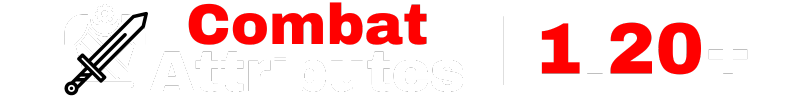
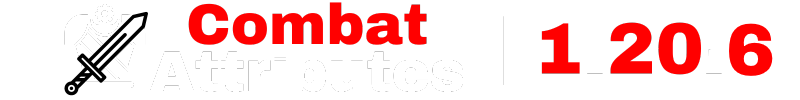
Support MC 1.20.6 (only)

Changed region(s): [[0.875, 0.24, 0.9688, 0.78]]

diff --git a/src/main/java/fr/keykatyu/combatattributes/combat/CombatItem.java b/src/main/java/fr/keykatyu/combatattributes/combat/CombatItem.java
@@ -15,12 +15,13 @@ import fr.keykatyu.combatattributes.util.ItemBuilder;
 import fr.keykatyu.combatattributes.util.Util;
 import fr.keykatyu.mctranslation.api.Language;
 import fr.keykatyu.mctranslation.api.MCTranslator;
+import net.minecraft.core.Holder;
 import net.minecraft.world.entity.ai.attributes.Attributes;
 import net.minecraft.world.item.*;
 import org.bukkit.NamespacedKey;
 import org.bukkit.attribute.AttributeModifier;
-import org.bukkit.craftbukkit.v1_20_R3.entity.CraftPlayer;
-import org.bukkit.craftbukkit.v1_20_R3.inventory.CraftItemStack;
+import org.bukkit.craftbukkit.v1_20_R4.entity.CraftPlayer;
+import org.bukkit.craftbukkit.v1_20_R4.inventory.CraftItemStack;
 import org.bukkit.entity.Player;
 import org.bukkit.inventory.EquipmentSlot;
 import org.bukkit.inventory.ItemFlag;
@@ -77,22 +78,22 @@ public class CombatItem {
                 Item item = CraftItemStack.asNMSCopy(itemStack).getItem();
                 switch (type) {
                     case WEAPON -> {
-                        double attackDamageBonus = CombatCalculator.defaultValue(item, net.minecraft.world.entity.EquipmentSlot.MAINHAND, Attributes.ATTACK_DAMAGE);
-                        double attackSpeedBonus = CombatCalculator.defaultValue(item, net.minecraft.world.entity.EquipmentSlot.MAINHAND, Attributes.ATTACK_SPEED);
+                        double attackDamageBonus = CombatCalculator.defaultValue(type, item, net.minecraft.world.entity.EquipmentSlot.MAINHAND, Attributes.ATTACK_DAMAGE.value());
+                        double attackSpeedBonus = CombatCalculator.defaultValue(type, item, net.minecraft.world.entity.EquipmentSlot.MAINHAND, Attributes.ATTACK_SPEED.value());
                         ib.updateAttributeModifierValue(org.bukkit.attribute.Attribute.GENERIC_ATTACK_DAMAGE, "fix_attackdamage", attackDamageBonus);
                         ib.updateAttributeModifierValue(org.bukkit.attribute.Attribute.GENERIC_ATTACK_SPEED, "fix_attackspeed", attackSpeedBonus);
                     }
                     case ARMOR_PIECE -> {
                         ArmorItem itemArmor = (ArmorItem) item;
-                        double armorBonus = CombatCalculator.defaultValue(itemArmor, itemArmor.getEquipmentSlot(), Attributes.ARMOR);
+                        double armorBonus = CombatCalculator.defaultValue(type, itemArmor, itemArmor.getEquipmentSlot(), Attributes.ARMOR.value());
                         ib.updateAttributeModifierValue(org.bukkit.attribute.Attribute.GENERIC_ARMOR, "fix_armor", armorBonus);
 
-                        ArmorMaterial armorMaterial = itemArmor.getMaterial();
+                        Holder<ArmorMaterial> armorMaterial = itemArmor.getMaterial();
                         if(armorMaterial == ArmorMaterials.DIAMOND || armorMaterial == ArmorMaterials.NETHERITE) {
-                            double armorToughnessBonus = CombatCalculator.defaultValue(itemArmor, itemArmor.getEquipmentSlot(), Attributes.ARMOR_TOUGHNESS);
+                            double armorToughnessBonus = CombatCalculator.defaultValue(type, itemArmor, itemArmor.getEquipmentSlot(), Attributes.ARMOR_TOUGHNESS.value());
                             ib.updateAttributeModifierValue(org.bukkit.attribute.Attribute.GENERIC_ARMOR_TOUGHNESS, "fix_armortoughness", armorToughnessBonus);
                             if(armorMaterial == ArmorMaterials.NETHERITE) {
-                                double knockbackResistance = CombatCalculator.defaultValue(itemArmor, itemArmor.getEquipmentSlot(), Attributes.KNOCKBACK_RESISTANCE);
+                                double knockbackResistance = CombatCalculator.defaultValue(type, itemArmor, itemArmor.getEquipmentSlot(), Attributes.KNOCKBACK_RESISTANCE.value());
                                 ib.updateAttributeModifierValue(org.bukkit.attribute.Attribute.GENERIC_KNOCKBACK_RESISTANCE, "fix_knockbackresistance", knockbackResistance);
                             }
                         }
@@ -103,8 +104,8 @@ public class CombatItem {
             Item item = CraftItemStack.asNMSCopy(itemStack).getItem();
             switch (type) {
                 case WEAPON -> {
-                    double attackDamageBonus = CombatCalculator.defaultValue(item, net.minecraft.world.entity.EquipmentSlot.MAINHAND, Attributes.ATTACK_DAMAGE);
-                    double attackSpeedBonus = CombatCalculator.defaultValue(item, net.minecraft.world.entity.EquipmentSlot.MAINHAND, Attributes.ATTACK_SPEED);
+                    double attackDamageBonus = CombatCalculator.defaultValue(type, item, net.minecraft.world.entity.EquipmentSlot.MAINHAND, Attributes.ATTACK_DAMAGE.value());
+                    double attackSpeedBonus = CombatCalculator.defaultValue(type, item, net.minecraft.world.entity.EquipmentSlot.MAINHAND, Attributes.ATTACK_SPEED.value());
                     ib.addAttributeModifier(org.bukkit.attribute.Attribute.GENERIC_ATTACK_DAMAGE,
                             new AttributeModifier(UUID.randomUUID(), "fix_attackdamage", attackDamageBonus, AttributeModifier.Operation.ADD_NUMBER, itemStack.getType().getEquipmentSlot()));
                     ib.addAttributeModifier(org.bukkit.attribute.Attribute.GENERIC_ATTACK_SPEED,
@@ -112,17 +113,17 @@ public class CombatItem {
                 }
                 case ARMOR_PIECE -> {
                     ArmorItem itemArmor = (ArmorItem) item;
-                    double armorBonus = CombatCalculator.defaultValue(itemArmor, itemArmor.getEquipmentSlot(), Attributes.ARMOR);
+                    double armorBonus = CombatCalculator.defaultValue(type, itemArmor, itemArmor.getEquipmentSlot(), Attributes.ARMOR.value());
                     ib.addAttributeModifier(org.bukkit.attribute.Attribute.GENERIC_ARMOR,
                             new AttributeModifier(UUID.randomUUID(), "fix_armor", armorBonus, AttributeModifier.Operation.ADD_NUMBER, itemStack.getType().getEquipmentSlot()));
 
-                    ArmorMaterial armorMaterial = itemArmor.getMaterial();
+                    Holder<ArmorMaterial> armorMaterial = itemArmor.getMaterial();
                     if(armorMaterial == ArmorMaterials.DIAMOND || armorMaterial == ArmorMaterials.NETHERITE) {
-                        double armorToughnessBonus = CombatCalculator.defaultValue(itemArmor, itemArmor.getEquipmentSlot(), Attributes.ARMOR_TOUGHNESS);
+                        double armorToughnessBonus = CombatCalculator.defaultValue(type, itemArmor, itemArmor.getEquipmentSlot(), Attributes.ARMOR_TOUGHNESS.value());
                         ib.addAttributeModifier(org.bukkit.attribute.Attribute.GENERIC_ARMOR_TOUGHNESS,
                                 new AttributeModifier(UUID.randomUUID(), "fix_armortoughness", armorToughnessBonus, AttributeModifier.Operation.ADD_NUMBER, itemStack.getType().getEquipmentSlot()));
                         if(armorMaterial == ArmorMaterials.NETHERITE) {
-                            double knockbackResistance = CombatCalculator.defaultValue(itemArmor, itemArmor.getEquipmentSlot(), Attributes.KNOCKBACK_RESISTANCE);
+                            double knockbackResistance = CombatCalculator.defaultValue(type, itemArmor, itemArmor.getEquipmentSlot(), Attributes.KNOCKBACK_RESISTANCE.value());
                             ib.addAttributeModifier(org.bukkit.attribute.Attribute.GENERIC_KNOCKBACK_RESISTANCE,
                                     new AttributeModifier(UUID.randomUUID(), "fix_knockbackresistance", knockbackResistance, AttributeModifier.Operation.ADD_NUMBER, itemStack.getType().getEquipmentSlot()));
                         }
@@ -148,12 +149,12 @@ public class CombatItem {
                     case CHEST -> combatAttributes.add("§7" + MCTranslator.translate("item.modifiers.chest", language));
                     case HEAD -> combatAttributes.add("§7" + MCTranslator.translate("item.modifiers.head", language));
                 }
-                combatAttributes.add("§9+" + df.format(CombatCalculator.getArmor(nmsItem)) + " " + MCTranslator.translate("attribute.name.generic.armor", language));
-                double armorToughness = CombatCalculator.getArmorToughness(nmsItem);
-                if(armorToughness != 0) combatAttributes.add("§9+" + df.format(CombatCalculator.getArmorToughness(nmsItem)) + " " + MCTranslator.translate("attribute.name.generic.armor_toughness", language));
+                combatAttributes.add("§9+" + df.format(CombatCalculator.getArmorAttribute(nmsItem, Attributes.ARMOR)) + " " + MCTranslator.translate("attribute.name.generic.armor", language));
+                double armorToughness = CombatCalculator.getArmorAttribute(nmsItem, Attributes.ARMOR_TOUGHNESS);
+                if(armorToughness != 0) combatAttributes.add("§9+" + df.format(armorToughness) + " " + MCTranslator.translate("attribute.name.generic.armor_toughness", language));
                 if(!Util.hasNetheriteKBResistanceToBeRemoved()) {
-                    double knockbackResistance = CombatCalculator.getKnockbackResistance(nmsItem);
-                    if(knockbackResistance != 0) combatAttributes.add("§9+" + df.format(CombatCalculator.getKnockbackResistance(nmsItem)) + " " + MCTranslator.translate("attribute.name.generic.knockback_resistance", language));
+                    double knockbackResistance = CombatCalculator.getArmorAttribute(nmsItem, Attributes.KNOCKBACK_RESISTANCE);
+                    if(knockbackResistance != 0) combatAttributes.add("§9+" + df.format(knockbackResistance) + " " + MCTranslator.translate("attribute.name.generic.knockback_resistance", language));
                 }
             }
         }

diff --git a/src/main/java/fr/keykatyu/combatattributes/combat/CombatCalculator.java b/src/main/java/fr/keykatyu/combatattributes/combat/CombatCalculator.java
@@ -10,15 +10,20 @@
  */
 package fr.keykatyu.combatattributes.combat;
 
+import net.minecraft.core.Holder;
+import net.minecraft.core.component.DataComponents;
 import net.minecraft.world.entity.EquipmentSlot;
+import net.minecraft.world.entity.EquipmentSlotGroup;
 import net.minecraft.world.entity.ai.attributes.Attribute;
-import net.minecraft.world.entity.ai.attributes.AttributeModifier;
 import net.minecraft.world.entity.ai.attributes.Attributes;
 import net.minecraft.world.item.ArmorItem;
 import net.minecraft.world.item.Item;
+import net.minecraft.world.item.ItemStack;
+import net.minecraft.world.item.component.ItemAttributeModifiers;
 import net.minecraft.world.item.enchantment.EnchantmentHelper;
-import org.bukkit.craftbukkit.v1_20_R3.entity.CraftPlayer;
+import org.bukkit.craftbukkit.v1_20_R4.entity.CraftPlayer;
 
+import java.util.ArrayList;
 import java.util.List;
 
 public class CombatCalculator {
@@ -30,9 +35,18 @@ public class CombatCalculator {
      * @param attribute The attribute
      * @return The default value
      */
-    public static double defaultValue(Item item, EquipmentSlot slot, Attribute attribute) {
-        List<AttributeModifier> modifiers = item.getDefaultAttributeModifiers(slot).get(attribute).stream().toList();
-        return modifiers.get(0).getAmount();
+    public static double defaultValue(CombatItem.Type type, Item item, EquipmentSlot slot, Attribute attribute) {
+        List<ItemAttributeModifiers.Entry> defaultEntries = new ArrayList<>();
+        switch (type) {
+            case WEAPON -> defaultEntries = item.components().get(DataComponents.ATTRIBUTE_MODIFIERS).modifiers();
+            case ARMOR_PIECE -> defaultEntries = ((ArmorItem) item).getDefaultAttributeModifiers().modifiers();
+        }
+        for(ItemAttributeModifiers.Entry entry : defaultEntries) {
+            if(entry.slot() == EquipmentSlotGroup.bySlot(slot) && entry.attribute().value() == attribute) {
+                return entry.modifier().amount();
+            }
+        }
+        return 0.0;
     }
 
     /**
@@ -40,12 +54,14 @@ public class CombatCalculator {
      * @param item The NMS ItemStack
      * @return The item attack damage
      */
-    public static double getAttackDamage(net.minecraft.world.item.ItemStack item, CraftPlayer craftPlayer) {
+    public static double getAttackDamage(ItemStack item, CraftPlayer craftPlayer) {
         double attackDamage = 1.0;
-        for(net.minecraft.world.entity.ai.attributes.AttributeModifier modifier : item.getAttributeModifiers(EquipmentSlot.MAINHAND).get(Attributes.ATTACK_DAMAGE)) {
-            attackDamage += modifier.getAmount();
+        for(ItemAttributeModifiers.Entry entry : item.getItem().components().get(DataComponents.ATTRIBUTE_MODIFIERS).modifiers()) {
+            if(entry.slot() == EquipmentSlotGroup.MAINHAND && entry.attribute().value() == Attributes.ATTACK_DAMAGE.value()) {
+                attackDamage += entry.modifier().amount();
+            }
         }
-        attackDamage += EnchantmentHelper.getDamageBonus(item, craftPlayer.getHandle().getMobType());
+        attackDamage += EnchantmentHelper.getDamageBonus(item, craftPlayer.getHandle().getType());
         attackDamage = Math.round(attackDamage * 10.0) / 10.0;
         return attackDamage;
     }
@@ -55,58 +71,33 @@ public class CombatCalculator {
      * @param item The NMS ItemStack
      * @return The item attack speed
      */
-    public static double getAttackSpeed(net.minecraft.world.item.ItemStack item) {
+    public static double getAttackSpeed(ItemStack item) {
         double attackSpeed = 4.0;
-        for(net.minecraft.world.entity.ai.attributes.AttributeModifier modifier : item.getAttributeModifiers(EquipmentSlot.MAINHAND).get(Attributes.ATTACK_SPEED)) {
-            attackSpeed += modifier.getAmount();
+        for(ItemAttributeModifiers.Entry entry : item.get(DataComponents.ATTRIBUTE_MODIFIERS).modifiers()) {
+            if(entry.slot() == EquipmentSlotGroup.MAINHAND && entry.attribute().value() == Attributes.ATTACK_SPEED.value()) {
+                attackSpeed += entry.modifier().amount();
+            }
         }
         attackSpeed = Math.round(attackSpeed * 10.0) / 10.0;
         return attackSpeed;
     }
 
     /**
-     * Calculate item armor with NMS
-     * @param item The NMS ItemStack
-     * @return The item armor points
+     * Calculate an armor attribute
+     * @param item The armor piece item
+     * @param attribute The attribute
+     * @return The calculated value
      */
-    public static double getArmor(net.minecraft.world.item.ItemStack item) {
-        double armor = 0.0;
+    public static double getArmorAttribute(ItemStack item, Holder<Attribute> attribute) {
         ArmorItem itemArmor = ((ArmorItem) item.getItem());
-        for(net.minecraft.world.entity.ai.attributes.AttributeModifier modifier : item.getAttributeModifiers(itemArmor.getEquipmentSlot()).get(Attributes.ARMOR)) {
-            armor += modifier.getAmount();
+        double value = 0.0;
+        for(ItemAttributeModifiers.Entry entry : item.get(DataComponents.ATTRIBUTE_MODIFIERS).modifiers()) {
+            if(entry.slot() == EquipmentSlotGroup.bySlot(itemArmor.getEquipmentSlot()) && entry.attribute().value() == attribute.value()) {
+                value += entry.modifier().amount();
+            }
         }
-        armor = Math.round(armor * 10.0) / 10.0;
-        return armor;
-    }
-
-    /**
-     * Calculate item armor toughness with NMS
-     * @param item The NMS ItemStack
-     * @return The item armor toughness
-     */
-    public static double getArmorToughness(net.minecraft.world.item.ItemStack item) {
-        double armorToughness = 0.0;
-        ArmorItem itemArmor = ((ArmorItem) item.getItem());
-        for(net.minecraft.world.entity.ai.attributes.AttributeModifier modifier : item.getAttributeModifiers(itemArmor.getEquipmentSlot()).get(Attributes.ARMOR_TOUGHNESS)) {
-            armorToughness += modifier.getAmount();
-        }
-        armorToughness = Math.round(armorToughness * 10.0) / 10.0;
-        return armorToughness;
-    }
-
-    /**
-     * Calculate item armor knockback resistance with NMS
-     * @param item The NMS ItemStack
-     * @return The item armor knocback resistance
-     */
-    public static double getKnockbackResistance(net.minecraft.world.item.ItemStack item) {
-        double knockbackResistance = 0.0;
-        ArmorItem itemArmor = ((ArmorItem) item.getItem());
-        for(net.minecraft.world.entity.ai.attributes.AttributeModifier modifier : item.getAttributeModifiers(itemArmor.getEquipmentSlot()).get(Attributes.KNOCKBACK_RESISTANCE)) {
-            knockbackResistance += modifier.getAmount();
-        }
-        knockbackResistance = Math.round(knockbackResistance * 10.0);
-        return knockbackResistance;
+        value = Math.round(value * 10.0) / 10.0;
+        return value;
     }
 
 }

diff --git a/src/main/java/fr/keykatyu/combatattributes/listener/CombatAttributesListener.java b/src/main/java/fr/keykatyu/combatattributes/listener/CombatAttributesListener.java
@@ -1,4 +1,3 @@
-
 /*
  * CombatAttributes plugin to remove custom combat items attributes
  * Copyright (C) 2024 KeyKatyu (Antoine D.)
@@ -22,7 +21,7 @@ import net.minecraft.world.item.ArmorItem;
 import net.minecraft.world.item.ArmorMaterials;
 import org.bukkit.attribute.Attribute;
 import org.bukkit.attribute.AttributeModifier;
-import org.bukkit.craftbukkit.v1_20_R3.inventory.CraftItemStack;
+import org.bukkit.craftbukkit.v1_20_R4.inventory.CraftItemStack;
 import org.bukkit.entity.Player;
 import org.bukkit.event.EventHandler;
 import org.bukkit.event.EventPriority;
@@ -204,7 +203,7 @@ public class CombatAttributesListener implements Listener {
             }
         }
 
-        double kbResistance = CombatCalculator.defaultValue(itemArmor, itemArmor.getEquipmentSlot(), Attributes.KNOCKBACK_RESISTANCE);
+        double kbResistance = CombatCalculator.defaultValue(CombatItem.Type.ARMOR_PIECE, itemArmor, itemArmor.getEquipmentSlot(), Attributes.KNOCKBACK_RESISTANCE.value());
         if(kbResistance > 0) {
             im.addAttributeModifier(Attribute.GENERIC_KNOCKBACK_RESISTANCE,
                     new AttributeModifier(UUID.randomUUID(), "remove_netheritekbresistance", -kbResistance, AttributeModifier.Operation.ADD_NUMBER, is.getType().getEquipmentSlot()));
